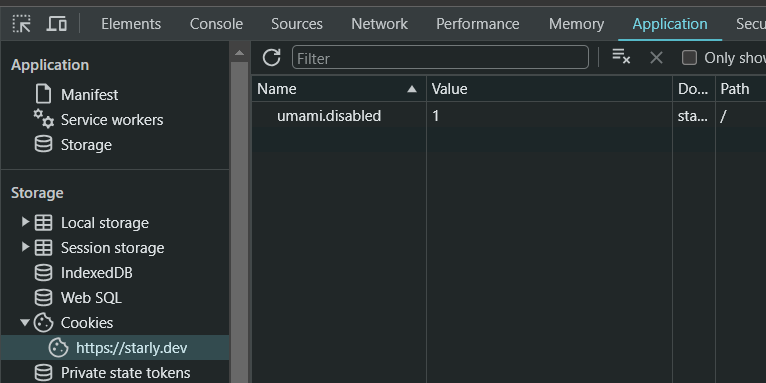
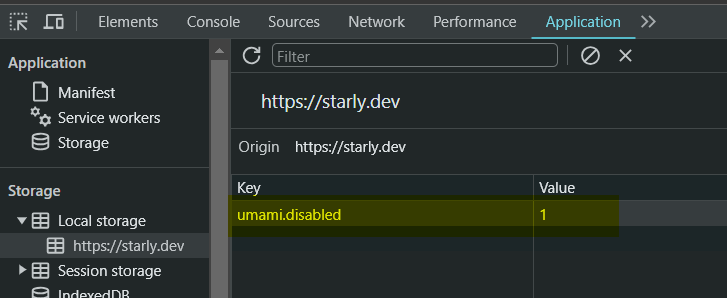
fix: fixing umami.disable picture

Changed region(s): [[0.0, 0.0, 1.0, 1.0]]

diff --git a/content/misc/analytics.md b/content/misc/analytics.md
@@ -317,12 +317,11 @@ Windows has a similar concept called page / pagefile; [here](https://stackoverfl
 
 1. go to your website and inspect element
 2. go to the Application tab 
-3. go to Cookies
-4. double click the next available space below `Name` and type `umami.disabled`
+3. go to Local Storage
+4. double click the next available space below `Key` and type `umami.disabled`
 5. add a value to it of `1`
 
-![cookie example]({attach}/images/umami/cookie.png)
-
+![localStorage example]({attach}/images/umami/cookie.png)
 
 ## :x dns
 ![screenshot of DNS settings]({attach}/images/umami/dns.png)
